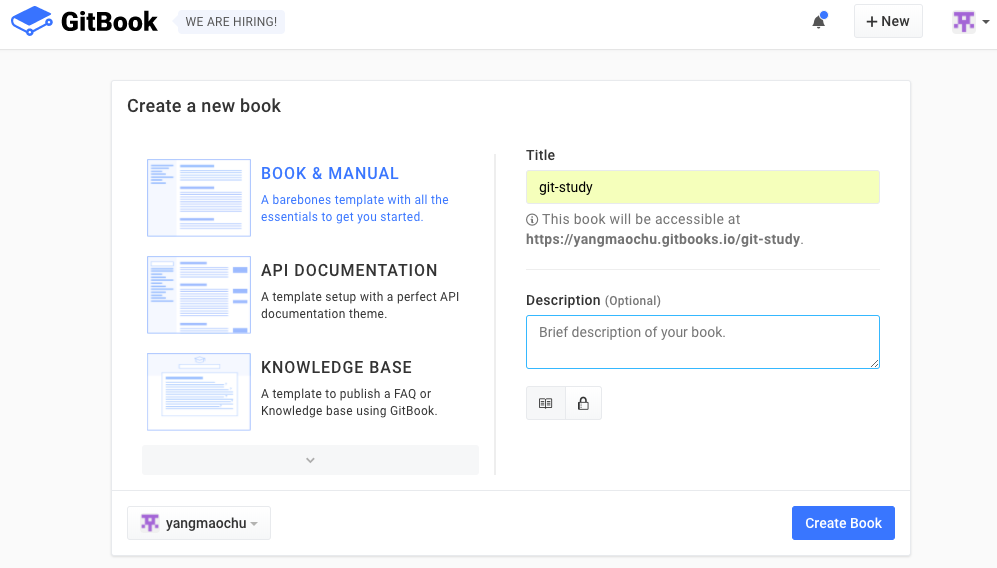
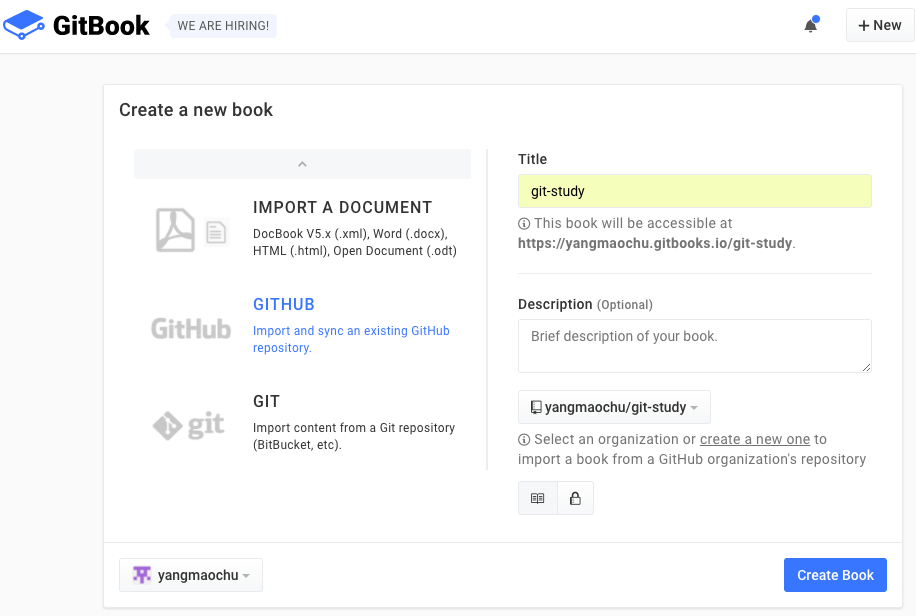
新建gitbook第二本书籍由于开始时未发现有GitHub的新建类型导致方法过于复杂,这里进行了调整.

diff --git a/Install/CreateBook.md b/Install/CreateBook.md
@@ -28,13 +28,6 @@
 ## 新建第二本书籍(git-study)
 
 1. 在GitHub中新建一个仓库.
-2. 在[GitBook](https://www.gitbook.com/new)中新建一本同名的书,如下图:
+2. 在[GitBook](https://www.gitbook.com/new)中新建一本同名的书,新建类型选择为"GITHUB"如下图:
 ![](img/CreateGitBook.png)
-3. 进入GitBook新增书籍的Settings页面:
-![](img/BookSetting.png)
-在Settings-GutHub中点击Select a Repository选择GitHub中新增仓库,如下图:
-![](img/BookSettingGitHub.png)
-最后点击同步按钮完成新建工作
-
->注意:如果在第3步中提示无法自动同步,可以选择强制同步GitBook内容至GitHub.
 
